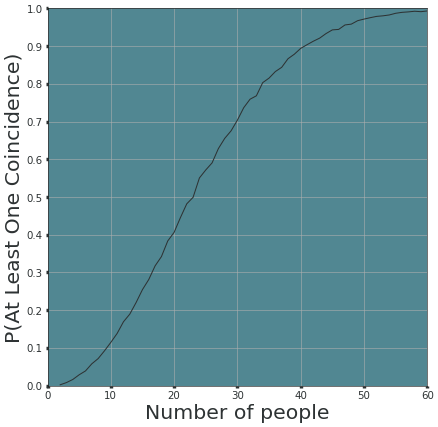
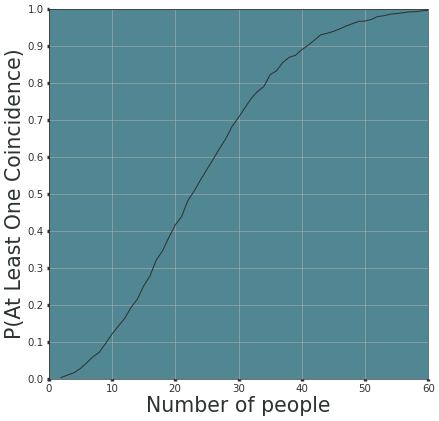
deploy: c236a7530606d18b7183f1582ad5ab26d6f7a4bd

diff --git a/searchindex.js b/searchindex.js
@@ -1,1 +1,1 @@
-Search.setIndex({docnames:["01_mathematical_preliminaries/01_combinatorics","01_mathematical_preliminaries/exercises","02_probability/0202_probability_space","02_probability/0203_probability_axioms","02_probability/0204_conditional_probability","02_probability/0205_independence","02_probability/0206_bayes_theorem","02_probability/summary","03_discrete_random_variables/0301_random_variables","03_discrete_random_variables/0302_discrete_random_variables","03_discrete_random_variables/0303_probability_mass_function","03_discrete_random_variables/0304_cumulative_distribution_function","intro"],envversion:{"sphinx.domains.c":2,"sphinx.domains.changeset":1,"sphinx.domains.citation":1,"sphinx.domains.cpp":5,"sphinx.domains.index":1,"sphinx.domains.javascript":2,"sphinx.domains.math":2,"sphinx.domains.python":3,"sphinx.domains.rst":2,"sphinx.domains.std":2,"sphinx.ext.intersphinx":1,"sphinxcontrib.bibtex":9,sphinx:56},filenames:["01_mathematical_preliminaries/01_combinatorics.md","01_mathematical_preliminaries/exercises.ipynb","02_probability/0202_probability_space.md","02_probability/0203_probability_axioms.md","02_probability/0204_conditional_probability.md","02_probability/0205_independence.md","02_probability/0206_bayes_theorem.md","02_probability/summary.md","03_discrete_random_variables/0301_random_variables.md","03_discrete_random_variables/0302_discrete_random_variables.md","03_discrete_random_variables/0303_probability_mass_function.md","03_discrete_random_variables/0304_cumulative_distribution_function.md","intro.md"],objects:{},objnames:{},objtypes:{},terms:{"0":[1,2,3,5,6,7,8,10,11],"07":1,"1":[0,1,2,3,4,5,6,7,8,9,10,11],"10":[2,11],"1000":1,"10000":1,"1000000":1,"12":9,"13":8,"15":[1,10],"18":11,"1st":5,"2":[0,1,2,3,5,7,8,10,11],"20":1,"2014":11,"2021":[2,5,6],"25":[1,7,11],"26":1,"2d":1,"2d3233":1,"2x":8,"3":[0,1,2,5,6,7,8,10,11],"30":1,"3230":1,"323374":1,"36":[0,5,7],"365":1,"4":[1,2,5,7,8,10,11],"49":1,"4b71eb3c8dc7":1,"5":[0,1,2,5,7,8,10,11],"50":1,"518792":1,"6":[0,2,5,7],"60":1,"7":[1,2,5],"8":[1,2,5],"8986519194402697e":1,"9":2,"90":6,"91":6,"9687":1,"97":1,"9725":1,"abstract":2,"boolean":1,"case":[1,3,8,11],"class":7,"default":1,"do":[2,5,11],"final":[1,2],"float":1,"function":[3,4,5,6,8],"import":[0,1,2,7,8,11],"int":1,"long":2,"return":1,"short":1,"throw":[2,3,5,8],"true":[0,1,3,11],"while":[8,9],A:[1,2,3,4,5,6,7,8,9,10],And:2,As:[1,5,10,11],At:1,But:[0,2,7],By:[0,7],For:[1,2,3,7],If:[0,1,2,3,4,5,6,7],In:[0,1,2,3,4,5,7,8,10,11],It:[1,2,3,5,8],One:[0,1,2,3,5,7],That:[7,11],The:[1,4,5,6,8,10,11],Then:[0,2,4,5,6,7,8,11],There:2,To:[0,3,5],With:[2,8],_:1,a_1:[3,6,7],a_2:[3,6,7],a_3:6,a_i:[2,3,6,7],a_j:6,a_k:[6,7],a_n:[3,6],abl:2,about:[2,5],abov:[5,10],abus:7,action:2,actual:7,add:[0,1,2,6,7],addit:0,adject:2,advantag:11,affect:[2,5],after:[1,4,6,7],again:2,against:7,airplan:0,akin:1,align:[2,8,10,11],all:[0,1,2,3,5,6,7,8,10,11],all_lett:1,allow:[1,2],aloc:1,alphabet:1,alreadi:[5,8],also:[0,1,2,3,5,6,7,11],alwai:[2,8],amount:5,an:[0,1,2,3,4,5,7,8,11],analysi:7,ani:[1,2,3,6,7,8,11],anoth:[2,11],answer:[0,1,4,7,8],anywai:[6,7],appar:[4,6,7],appear:0,append:1,appli:8,ar:[0,1,2,3,4,5,6,7,8,9],arbitrari:8,area:[4,5],arg:1,argument:5,around:1,arrai:[1,11],asarrai:1,ascii_lowercas:1,ask:[0,2,8],assign:[1,2],assum:[0,1,2,5,6],attempt:2,author:5,awai:11,ax:[1,11],axi:11,axiom:2,b:[1,2,3,4,5,6,7],back:[2,6,8],ball:2,beat:7,becaus:[2,3,5],becom:[2,4,7],been:2,begin:[2,8,10,11],beginn:[2,4],being:[2,3],believ:5,belong:4,below:[1,2,3,5,6,8],best:7,better:2,between:[2,8],bigcup_:2,bigsqcup_:3,biject:8,black:2,blob:1,blue:2,book:[0,12],bool:1,both:[0,2,3,4,7],broken:[6,7],c:[2,3,4,5,7],cach:1,calc_vowel_consonant_prob:1,calcul:[1,2],calculate_same_birthday_prob:1,calculate_same_birthday_probability_rng_choic:1,call:[6,8,10],can:[0,1,2,3,5,6,7,8,9,10,11],cannot:[2,3,5,11],cap:[3,4,5,6,7],care:[0,1,2,7],carefulli:[2,8],caus:7,cd:1,cdot:[6,8],certain:2,chan:[2,5,6,8],chanc:[1,2,7],chang:[0,7],chapter:[0,2,5],check:[1,4,7],choic:[0,1,2,5,7],choo:0,choos:[0,2],chose:2,chosen:1,chosen_lett:1,circl:[1,4,5],cite:2,claim:[0,2],clear:[3,5,6],close:12,cmap:1,code:1,codomain:8,coin:[2,3],coincid:[1,8],collect:[1,2],color:[1,2,8],colorbar:1,com:[1,11],combin:7,come:[1,2],common:7,compar:2,complet:[8,10],compulsori:2,comput:[10,11],concis:3,concret:[2,8],condit:1,confus:[2,8],consequ:8,consid:[0,1,2,5,7,8,11],consist:2,conson:1,constant:[1,8],constantli:[4,7],construct:[2,5,8],contain:1,containsdupl:1,content:1,contest:7,context:[2,5,6,8],continu:[2,11],contour:1,converg:1,convinc:[0,2],correctli:1,correspond:[1,9],correspondingli:[1,2],could:2,count:[1,2,7],countabl:[2,3,10,11],counter:2,cours:[0,2,7],course_2014:11,creat:1,cross:[0,7],cumsum:11,cup:[3,6],curvatur:1,d:2,d_1:0,d_2:0,d_3:0,dai:1,dartboard:5,data:[1,2,6,10,12],dataset:7,decreas:11,deduc:[6,7],def:[1,8,11],default_rng:1,defin:[3,4,6,8,11],definit:[2,7],denomin:[0,7],denot:[0,2,4,8,10],depend:[2,5,7,8],depth:2,describ:[2,8,11],desrib:2,detail:[2,5],determin:[8,10],determinist:8,dfrac:[0,2,4,5,6,7,8,10],diagram:[3,11],dice:[0,2,5,7],dice_1:5,dice_2:5,did:2,die:[2,5],differ:[1,8],dinner:0,directli:1,discret:[1,10,11],discuss:2,disjoint:[6,7],distinct:8,distribut:[1,2],divid:[1,4,5],doe:[1,2,5,6],doesn:6,domain:[8,10],don:[0,1,6,7],done:2,dot:2,down:[6,7],dpi:1,draw:[1,2,3],drawn:1,dtype:1,due:6,dup_dict:1,duplic:1,e:[1,3,4,5,6,8,10],each:[1,2,6,8,10],easi:[3,5,6,7,8],either:[1,3],element:[1,2,8],elimin:5,ell:11,els:1,emptyset:[2,3,5,8],end:[2,8,10,11],engin:7,english:1,enough:1,enter:7,entir:[2,3],enumer:[0,1,5,7,8,10],epsilon:2,equal:2,equat:[5,7,8],equiprob:2,equival:[1,8,11],establish:[5,6,8],estimate_p_aloc:1,estimate_p_aloc_for_rang:1,even:[5,7],event:[0,1,4,6,7,8],exactli:2,examin:[8,10],exampl:[0,1,3,5,7,10],exclus:2,exhaust:2,exist:2,exp:1,expect:8,experi:[3,5,8],explan:5,express:[6,8],f:[1,11],face:7,fact:[2,6,7],fair:8,fals:[1,11],field:2,fifti:7,fig:[1,4,11],figsiz:[1,11],figur:[4,6,11],fill:0,filterwarn:11,find:[1,2,5,6,7],finit:2,first:[0,1,2,5,6,7,8],fit:7,five:5,fix:[0,8],flaw:5,focu:5,fold:1,follow:[2,3,5,7,8,10,11,12],fontsiz:1,forget:2,form:[1,5],formal:[2,5],formula:[2,4,5,6,7],four:8,frac:[1,2,5,11],free:11,frequenc:[1,2],from:[1,2,5,6,8,11],fulfil:1,full:[4,5],functool:1,further:[2,5],game:7,gaohn:1,gaussian:7,gave:[5,8],gener:[1,2],generate_k_birthdai:1,generate_one_random_birthdai:1,generate_random_birthdai:1,geq:3,get:[1,2,8],github:1,give:[1,2,4],given:[1,2,3,4,5,7,8,10,11],go:[1,2],good:[4,8],got:1,granular:2,grid:[1,11],group:1,h:[2,6],ha:[1,2,4,5,7,8,11],hand:5,happen:[3,4,5,7],has_coincid:1,has_dupl:1,have:[0,1,2,3,4,5,6,7,8,10,11],head:[2,3,8],henc:[2,3,5],here:[1,2,4,5,6,7,8,10,11],hh:[8,10],high:1,home:1,how:[0,1,2,5,8],howev:[2,8],ht:[8,10],http:[1,11],hurdl:2,i:[1,2,3,4,5,6,7,8,10,11],idea:[3,4],ideal:2,iff:5,ignor:11,illustr:[3,4,5],imag:6,imagin:5,immedi:[2,3,4,5],impli:2,inclus:1,inde:[0,1,7,8],independ:0,index:[1,6,7],indic:1,influenc:5,inform:[2,3,4],infti:[2,3,11],inspect:2,instanc:2,instead:[1,5,11],integ:1,interest:[2,7],interpret:2,intersect:[4,5],interv:9,introduct:[2,6,10],intuit:[2,3,7],involv:2,irrelev:2,issubset:1,its:[3,8,10],itself:[6,7],jar:1,just:[1,2,4,6,7],k:[1,6,7,11],k_probabl:1,keep:1,kind:11,know:[0,2,5,7,8],known:2,ks:1,kwarg:1,l_1:0,l_2:0,label:2,land:3,last:7,lastli:1,later:[2,11],law:[3,8],ldot:[0,5,6,7,11],learn:[2,7],least:[1,3],leav:5,left:[0,3,5],len:1,leq:[3,11],lesson:11,let:[0,2,3,4,5,6,7,10,11],letter:1,librari:1,like:[1,2,5,7],likelihood:2,limit:5,line:1,lineplot:1,linspac:1,list:1,littl:2,ll:2,logic:[3,4,7],longrightarrow:5,look:[1,2],loop:1,loos:[6,7],low:1,lru_cach:1,lset:[2,8,10,11],lsq:[2,8,10,11],lunch:0,machin:7,made:6,mai:[2,6],main:8,major:2,make:[2,6],mani:[0,1,7],manual:[0,7,8],map:[2,8,10],mapsto:[2,8,10],mass:11,master:1,match:[7,8],math:2,mathbb:9,mathemat:2,mathstackexchang:2,matplotlib:[1,11],max_num_peopl:1,maximum:11,me:[2,5],mean:[1,2,4,5,6,7,8],meant:8,measur:8,mention:[2,5],menu:0,meshgrid:1,method:11,michigan:2,might:[2,4],min:0,min_num_peopl:1,mine:1,minimum:11,mix:[1,11],ml:7,model:[1,2,7],monoton:3,more:[1,2,5,6,8],most:[0,1,2,3,7],mostli:7,much:2,multipl:[7,8],multipli:1,must:[2,3,6,7],mutual:2,my:[1,2,5],myself:2,n:[2,3,4,5,6,9],naiv:2,name:[2,8],narr:5,natur:9,necessarili:[2,6,8],need:[0,2,6,7,8],neerajkumarvaid:1,neither:1,never:3,next:[0,2,7],ni:10,nice:[5,7],non:[2,6,7,8,11],none:1,notat:[2,8],note:[1,6,7,8,11],noth:0,notic:2,notwithstand:2,now:[0,1,2,4,5,6,7],np:[1,11],nr:2,num:1,num_aloc:1,num_birthdai:1,num_peopl:1,num_possible_birthdai:1,num_simul:1,num_trial:1,num_unique_birthdai:1,number:[1,2,4,5,8,9],numer:[0,3,7],numpi:[1,11],o:1,obei:2,object:2,observ:[2,6,7],obtain:11,obviou:[2,6],obvious:2,occur:[1,2,3,4,5],occurr:5,off:0,offer:0,often:[2,7,8],one:[0,1,2,3,4,5,7,8,9,11],onli:[0,2,4,5,7,8],option:[1,5],order:[1,2],os:1,other:[1,2,3,4,5],our:[0,1,2,7,8,10,11],ourselv:0,out:5,outcom:[0,2,3,4,5,7,8],over:[1,3,4,5,6],overlap:[4,6,7],overset:[8,11],overwhelm:2,p:[1,3,4,5,6,7,8,10,11],p_aloc:1,paradox:5,paramet:1,parametr:2,part:[0,1,7],particular:[1,2,4,7,8,10,11],partit:6,peopl:1,per:10,percent:7,person:1,pertain:2,pi:1,pick:2,plai:7,player:7,plot:11,plt:[1,11],point:2,portion:4,possibl:[1,2,3,8,10],pp:6,practic:7,prefer:2,present:2,pretti:8,previou:[2,5],principl:7,prior:7,probabilitycours:11,probabl:[1,8,11,12],problem:[0,1,2,7],process:11,product:[0,7],professor:8,proof:[6,10],proposit:3,provok:2,pspace:[3,4,5,6],publish:2,purpos:2,put:9,py:1,pyplot:[1,11],python:1,q:9,quad:[5,8],question:[2,7,8],quot:4,r:[2,8,9,11],rain:2,randint:1,random:[1,10,11],rang:[1,8,9],ratio:2,rdgy:1,reader:[6,7],real:[2,8,9],realiti:2,realiz:1,recal:[0,3,5,7,8,10],recogn:6,recov:6,red:[2,8],reduc:[4,5,7],refer:[0,1],refram:[0,7],relat:[0,7],remain:[5,7],remov:2,repeat:1,replac:[1,11],repli:2,repositori:12,repres:[4,6,7],represent:5,requir:7,respect:[0,2,7,11],rest:2,result:[1,2,3,5],revisit:10,right:[0,2,3,4,5,11],rng:1,roll:[0,2,5,7],rote:2,round:2,rset:[2,8,10,11],rsq:[2,8,10,11],run:1,runner:1,s:[0,1,2,3,4,5,7,8,10,11],s_1:2,s_2:2,s_n:2,sai:[1,2,5,7],said:[0,1,2,5],same:[0,1,2,3,8],sampel:2,sampl:[0,1,3,4,5,6,7,8,10],sample_2_letters_without_replac:1,satisfi:[2,3,8,10,11],scenario:[2,5],scienc:[1,2,6,10,12],scratch:1,seaborn:1,second:[0,5,7],secondli:[2,8],section:[2,5,7,10],see:[0,1,2,3,4,5,6,7,8,9,10,11],seed_al:1,seem:[2,8],select:[1,2],sens:[2,6],sequenc:3,set:[1,5,8,10,11],set_facecolor:1,set_tick_param:1,set_titl:11,set_xlabel:11,set_ylabel:11,set_ylim:11,shade:4,shape:2,sharei:11,sharex:11,shorthand:8,should:[1,2,4,5,6,7,8,10],show:[1,11],side:5,sigma:2,simpl:[0,1,2],simpli:[2,8],simplic:2,simul:1,sinc:[0,1,2,3,5,6,7,8,11],singl:[2,3],singleton:8,size:[1,2],sn:1,so:[0,1,2,3,4,5,7,8,11],solut:8,solv:8,some:[2,6,7],someth:[2,7],sometim:2,somewher:5,soon:2,space:[0,1,3,4,5,6,7,8,9],span:3,specif:2,specifi:[1,2],sqrt:1,squar:2,st:[8,10],stai:2,staircas:11,stand:2,stanlei:[2,6,8],start:[0,11],stat:1,state:[2,5,6,8,11],statisc:5,statist:11,stem:11,step:11,still:[5,6,7],str:1,straight:2,string:1,stuck:2,subject:2,subplot:[1,11],subsequ:2,subset:[1,2,3,8],subseteq:[3,6],suffic:1,suggest:[1,2],sum:[2,3,5,6],sum_:[2,3,6,10,11],summari:0,summat:3,suppos:7,symbol:11,t:[0,1,2,6,7],tail:[2,3,8],take:[1,2,8,10,11],taken:1,techniqu:2,tell:2,temporarili:2,tend:2,tenni:7,term:7,text:[2,8,11],textbf:[2,5,8],textbook:[2,11],th:[8,10],than:2,thei:[1,2,3,5,6,7,8],them:[0,3,5,6,7],themselv:2,theorem:2,theoret:1,theori:3,therefor:[0,2,4,5,6,7],thi:[0,1,2,3,4,5,6,7,8,12],think:5,thought:2,three:[2,5,7],thrice:0,through:[1,2],thu:[2,5,10,11],tie:8,time:[0,1,3,7],todo:10,too:2,toss:[2,3],total:[0,1,2,8],touch:[6,7],tournament:7,towardsdatasci:1,trial:2,triplet:2,truli:[5,7],tt:[8,10],tupl:[2,5],turn:2,tweak:2,twice:[0,1,5,7,8],two:[1,5,6,8],type:[1,2,7],typic:2,u:1,unchang:[5,7],uncount:2,understand:[1,2,5,6,7],understood:[0,1,5,7],uniform:1,uniformli:1,uniqu:2,unique_birthdai:1,univers:[4,5],up:[1,2,6,7],url:11,us:[0,1,2,5,7,10,11],usag:[6,7],use_line_collect:11,user:2,usual:2,util:1,valu:[1,8,10],variabl:[1,10,11],venn:3,verifi:[0,7,8],view:6,violat:2,visit:2,visual:5,vowel:1,vs:7,w:7,wa:2,wai:[2,5,6,11],want:[1,2,5],warn:11,we:[0,1,2,3,4,5,6,7,8,10,11],weather:2,well:[0,2,3,7],were:[0,2],weren:2,what:[0,1,2,4,5,7,8],whatev:[4,7],when:[1,2,4,5,7,8],whenev:[1,6,7],where:[0,1,2,3,8,11],whether:1,which:[0,1,2,3,4,5,7,8],whole:[4,6,7],whose:9,why:[1,5],width:1,win:7,without:[1,4,5,7],won:7,word:[1,2,4,5],work:1,world:[2,7],would:[2,7],write:8,www:11,x:[1,8,9,10,11],x_:11,x_i:11,x_k:11,xaxi:1,xi:[2,8,10,11],xi_1:[8,11],xi_2:[8,11],xi_3:8,xi_4:8,xi_i:[8,11],xlabel:1,xlim:1,xtick:1,y:[1,11],y_rang:1,yan:0,yaxi:1,ye:2,ylabel:1,ylim:1,you:[2,4,5,8],your:[1,7,8],yourself:[2,8],ytick:1,z:[1,9]},titles:["Permutations and Combinations","Exercises","Probability Space","Probability Axioms","Conditional Probability","Independence","Baye\u2019s Theorem and the Law of Total Probability","Summary","Random Variables","Discrete Random Variables","Probability Mass Function","Cumulative Distribution Function","Introduction"],titleterms:{"10":1,"2":6,"247":6,"248":6,"47":6,"48":6,"6":1,"9":1,"do":[0,7],"function":[2,10,11],The:[0,2,3,7],addit:3,axiom:3,bay:[6,7],birthdai:1,bound:3,cdf:11,citat:[2,11],coin:[8,10],combin:0,complement:3,condit:[4,5,6,7],convers:11,corollari:[3,6],count:0,countabl:9,cross:10,cumul:11,defin:[2,5],definit:[4,5,8,9,10,11],discret:9,disjoint:[3,5],distribut:11,e:2,empti:3,equal:4,event:[2,3,5],exampl:[2,8],exclus:3,exercis:[1,5,6],experi:2,f:2,imag:8,inclus:3,independ:[5,7],inequ:3,interpret:6,introduct:12,intuit:[4,5,6],kolmogorov:3,law:[2,6,7],mass:10,mathbb:2,mathbf:2,mathcal:2,measur:2,mp:0,multipl:0,multipli:[0,7],mutual:3,neg:3,non:3,normal:[3,10],note:2,notion:2,omega:2,p:2,paradox:1,permut:0,pmf:[10,11],posterior:[6,7],pre:8,principl:0,priori:7,probabl:[0,2,3,4,5,6,7,10],properti:[10,11],proposit:4,question:1,random:[8,9],rule:10,s:6,sampl:2,set:[2,3,9],space:[2,10],state:10,sturg:10,summari:[7,8],term:5,terminolog:6,theorem:[6,7],three:3,toss:[8,10],total:[6,7],two:3,union:3,valid:10,variabl:[8,9],vs:[5,8],why:[0,7],you:[0,7],zero:2}})
+Search.setIndex({docnames:["01_mathematical_preliminaries/01_combinatorics","01_mathematical_preliminaries/exercises","02_probability/0202_probability_space","02_probability/0203_probability_axioms","02_probability/0204_conditional_probability","02_probability/0205_independence","02_probability/0206_bayes_theorem","02_probability/summary","03_discrete_random_variables/0301_random_variables","03_discrete_random_variables/0302_discrete_random_variables","03_discrete_random_variables/0303_probability_mass_function","03_discrete_random_variables/0304_cumulative_distribution_function","intro"],envversion:{"sphinx.domains.c":2,"sphinx.domains.changeset":1,"sphinx.domains.citation":1,"sphinx.domains.cpp":5,"sphinx.domains.index":1,"sphinx.domains.javascript":2,"sphinx.domains.math":2,"sphinx.domains.python":3,"sphinx.domains.rst":2,"sphinx.domains.std":2,"sphinx.ext.intersphinx":1,"sphinxcontrib.bibtex":9,sphinx:56},filenames:["01_mathematical_preliminaries/01_combinatorics.md","01_mathematical_preliminaries/exercises.ipynb","02_probability/0202_probability_space.md","02_probability/0203_probability_axioms.md","02_probability/0204_conditional_probability.md","02_probability/0205_independence.md","02_probability/0206_bayes_theorem.md","02_probability/summary.md","03_discrete_random_variables/0301_random_variables.md","03_discrete_random_variables/0302_discrete_random_variables.md","03_discrete_random_variables/0303_probability_mass_function.md","03_discrete_random_variables/0304_cumulative_distribution_function.md","intro.md"],objects:{},objnames:{},objtypes:{},terms:{"0":[1,2,3,5,6,7,8,10,11],"07":1,"1":[0,1,2,3,4,5,6,7,8,9,10,11],"10":[2,11],"1000":1,"10000":1,"1000000":1,"12":9,"13":8,"15":[1,10],"18":11,"1st":5,"2":[0,1,2,3,5,7,8,10,11],"20":1,"2014":11,"2021":[2,5,6],"25":[1,7,11],"26":1,"2d":1,"2d3233":1,"2x":8,"3":[0,1,2,5,6,7,8,10,11],"30":1,"322576":1,"3230":1,"36":[0,5,7],"365":1,"4":[1,2,5,7,8,10,11],"49":1,"4b71eb3c8dc7":1,"5":[0,1,2,5,7,8,10,11],"50":1,"518792":1,"6":[0,2,5,7],"60":1,"7":[1,2,5],"8":[1,2,5],"8986519194402697e":1,"9":2,"90":6,"91":6,"97":1,"9714":1,"abstract":2,"boolean":1,"case":[1,3,8,11],"class":7,"default":1,"do":[2,5,11],"final":[1,2],"float":1,"function":[3,4,5,6,8],"import":[0,1,2,7,8,11],"int":1,"long":2,"return":1,"short":1,"throw":[2,3,5,8],"true":[0,1,3,11],"while":[8,9],A:[1,2,3,4,5,6,7,8,9,10],And:2,As:[1,5,10,11],At:1,But:[0,2,7],By:[0,7],For:[1,2,3,7],If:[0,1,2,3,4,5,6,7],In:[0,1,2,3,4,5,7,8,10,11],It:[1,2,3,5,8],One:[0,1,2,3,5,7],That:[7,11],The:[1,4,5,6,8,10,11],Then:[0,2,4,5,6,7,8,11],There:2,To:[0,3,5],With:[2,8],_:1,a_1:[3,6,7],a_2:[3,6,7],a_3:6,a_i:[2,3,6,7],a_j:6,a_k:[6,7],a_n:[3,6],abl:2,about:[2,5],abov:[5,10],abus:7,action:2,actual:7,add:[0,1,2,6,7],addit:0,adject:2,advantag:11,affect:[2,5],after:[1,4,6,7],again:2,against:7,airplan:0,akin:1,align:[2,8,10,11],all:[0,1,2,3,5,6,7,8,10,11],all_lett:1,allow:[1,2],aloc:1,alphabet:1,alreadi:[5,8],also:[0,1,2,3,5,6,7,11],alwai:[2,8],amount:5,an:[0,1,2,3,4,5,7,8,11],analysi:7,ani:[1,2,3,6,7,8,11],anoth:[2,11],answer:[0,1,4,7,8],anywai:[6,7],appar:[4,6,7],appear:0,append:1,appli:8,ar:[0,1,2,3,4,5,6,7,8,9],arbitrari:8,area:[4,5],arg:1,argument:5,around:1,arrai:[1,11],asarrai:1,ascii_lowercas:1,ask:[0,2,8],assign:[1,2],assum:[0,1,2,5,6],attempt:2,author:5,awai:11,ax:[1,11],axi:11,axiom:2,b:[1,2,3,4,5,6,7],back:[2,6,8],ball:2,beat:7,becaus:[2,3,5],becom:[2,4,7],been:2,begin:[2,8,10,11],beginn:[2,4],being:[2,3],believ:5,belong:4,below:[1,2,3,5,6,8],best:7,better:2,between:[2,8],bigcup_:2,bigsqcup_:3,biject:8,black:2,blob:1,blue:2,book:[0,12],bool:1,both:[0,2,3,4,7],brain:2,broken:[6,7],c:[1,2,3,4,5,7],cach:1,calc_vowel_consonant_prob:1,calcul:[1,2],calculate_same_birthday_prob:1,calculate_same_birthday_probability_rng_choic:1,call:[6,8,10],can:[0,1,2,3,5,6,7,8,9,10,11],cannot:[2,3,5,11],cap:[3,4,5,6,7],care:[0,1,2,7],carefulli:[2,8],caus:7,cd:1,cdot:[6,8],certain:2,chan:[2,5,6,8],chanc:[1,2,7],chang:[0,7],chapter:[0,2,5],check:[1,4,7],choic:[0,1,2,5,7],choo:0,choos:[0,2],chose:2,chosen:1,chosen_lett:1,circl:[1,4,5],cite:2,claim:[0,2],clear:[3,5,6],close:12,cmap:1,code:1,codomain:8,coin:[2,3],coincid:[1,8],collect:[1,2],color:[1,2,8],colorbar:1,com:[1,11],combin:7,come:[1,2],common:7,compar:2,complet:[8,10],compulsori:2,comput:[10,11],concis:3,concret:[2,8],condit:1,confus:[2,8],consequ:8,consid:[0,1,2,5,7,8,11],consist:2,conson:1,constant:[1,8],constantli:[4,7],construct:[2,5,8],contain:1,containsdupl:1,content:1,contest:7,context:[2,5,6,8],continu:[2,11],contour:1,converg:1,convinc:[0,2],correctli:1,correspond:[1,9],correspondingli:[1,2],could:2,count:[1,2,7],countabl:[2,3,10,11],counter:2,cours:[0,2,7],course_2014:11,creat:1,cross:[0,7],cumsum:11,cup:[3,6],curvatur:1,d:2,d_1:0,d_2:0,d_3:0,dai:1,dartboard:5,data:[1,2,6,10,12],dataset:7,decreas:11,deduc:[6,7],def:[1,8,11],default_rng:1,defin:[3,4,6,8,11],definit:[2,7],denomin:[0,7],denot:[0,2,4,8,10],depend:[2,5,7,8],depth:2,describ:[2,8,11],desrib:2,detail:[2,5],determin:[8,10],determinist:8,dfrac:[0,2,4,5,6,7,8,10],diagram:[3,11],dice:[0,2,5,7],dice_1:5,dice_2:5,did:2,die:[2,5],differ:[1,8],dinner:0,directli:1,discret:[1,10,11],discuss:2,disjoint:[6,7],distinct:8,distribut:[1,2],divid:[1,4,5],doe:[1,2,5,6],doesn:6,domain:[8,10],don:[0,1,6,7],done:2,dot:2,down:[6,7],dpi:1,draw:[1,2,3],drawn:1,dtype:1,due:6,dump:2,dup_dict:1,duplic:1,e:[1,3,4,5,6,8,10],each:[1,2,6,8,10],easi:[3,5,6,7,8],either:[1,3],element:[1,2,8],elimin:5,ell:11,els:1,emptyset:[2,3,5,8],end:[2,8,10,11],engin:7,english:1,enough:1,enter:7,entir:[2,3],enumer:[0,1,5,7,8,10],epsilon:2,equal:2,equat:[5,7,8],equiprob:2,equival:[1,8,11],establish:[5,6,8],estimate_p_aloc:1,estimate_p_aloc_for_rang:1,even:[5,7],event:[0,1,4,6,7,8],exactli:2,examin:[8,10],exampl:[0,1,3,5,7,10],exclus:2,exhaust:2,exist:2,exp:1,expect:8,experi:[3,5,8],explan:5,express:[6,8],f:[1,11],face:7,fact:[2,6,7],fair:8,fals:[1,11],field:2,fifti:7,fig:[1,4,11],figsiz:[1,11],figur:[4,6,11],fill:0,filterwarn:11,find:[1,2,5,6,7],finit:2,first:[0,1,2,5,6,7,8],fit:7,five:5,fix:[0,8],flaw:5,focu:5,fold:1,follow:[2,3,5,7,8,10,11,12],fontsiz:1,forget:2,form:[1,5],formal:[2,5],formula:[2,4,5,6,7],four:8,frac:[1,2,5,11],free:11,frequenc:[1,2],from:[1,2,5,6,8,11],fulfil:1,full:[4,5],functool:1,further:[2,5],game:7,gao_hongnan:1,gaohn:1,gaussian:7,gave:[5,8],gener:[1,2],generate_k_birthdai:1,generate_one_random_birthdai:1,generate_random_birthdai:1,geq:3,get:[1,2,8],github:1,give:[1,2,4],given:[1,2,3,4,5,7,8,10,11],go:[1,2],good:[4,8],got:1,granular:2,grid:[1,11],group:1,h:[2,6],ha:[1,2,4,5,7,8,11],hand:5,happen:[3,4,5,7],has_coincid:1,has_dupl:1,have:[0,1,2,3,4,5,6,7,8,10,11],head:[2,3,8],henc:[2,3,5],here:[1,2,4,5,6,7,8,10,11],hh:[8,10],high:1,how:[0,1,5,8],howev:[2,8],ht:[8,10],http:[1,11],hurdl:2,i:[1,2,3,4,5,6,7,8,10,11],idea:[3,4],ideal:2,iff:5,ignor:11,illustr:[3,4,5],imag:6,imagin:5,immedi:[2,3,4,5],impli:2,inclus:1,inde:[0,1,7,8],independ:0,index:[1,6,7],indic:1,influenc:5,inform:[2,3,4],infti:[2,3,11],inspect:2,instanc:2,instead:[1,5,11],integ:1,interest:[2,7],interpret:2,intersect:[4,5],interv:9,introduct:[2,6,10],intuit:[2,3,7],involv:2,irrelev:2,issubset:1,its:[3,8,10],itself:[6,7],jar:1,just:[1,2,4,6,7],k:[1,6,7,11],k_probabl:1,keep:1,kind:11,know:[0,2,5,7,8],known:2,ks:1,kwarg:1,l_1:0,l_2:0,label:2,land:3,last:7,lastli:1,later:[2,11],law:[3,8],ldot:[0,5,6,7,11],learn:[2,7],least:[1,3],leav:5,left:[0,3,5],len:1,leq:[3,11],lesson:11,let:[0,2,3,4,5,6,7,10,11],letter:1,librari:1,like:[1,2,5,7],likelihood:2,limit:5,line:1,lineplot:1,linspac:1,list:1,littl:2,ll:2,logic:[3,4,7],longrightarrow:5,look:[1,2],loop:1,loos:[6,7],low:1,lru_cach:1,lset:[2,8,10,11],lsq:[2,8,10,11],lunch:0,machin:7,made:6,mai:[2,6],main:8,major:2,make:[2,6],mani:[0,1,7],manual:[0,7,8],map:[2,8,10],mapsto:[2,8,10],mass:11,master:1,match:[7,8],math:2,mathbb:9,mathemat:2,mathstackexchang:2,matplotlib:[1,11],max_num_peopl:1,maximum:11,md:2,me:[2,5],mean:[1,2,4,5,6,7,8],meant:8,measur:8,mention:[2,5],menu:0,meshgrid:1,method:11,michigan:2,might:[2,4],min:0,min_num_peopl:1,mine:1,minimum:11,mix:[1,11],ml:7,model:[1,2,7],monoton:3,more:[1,2,5,6,8],most:[0,1,2,3,7],mostli:7,much:2,multipl:[7,8],multipli:1,must:[2,3,6,7],mutual:2,my:[1,2,5],myself:2,n:[2,3,4,5,6,9],naiv:2,name:[2,8],narr:5,natur:9,necessarili:[2,6,8],need:[0,2,6,7,8],neerajkumarvaid:1,neither:1,never:3,next:[0,2,7],ni:10,nice:[5,7],non:[2,6,7,8,11],none:1,notat:[2,8],note:[1,6,7,8,11],noth:0,notic:2,notwithstand:2,now:[0,1,2,4,5,6,7],np:[1,11],nr:2,num:1,num_aloc:1,num_birthdai:1,num_peopl:1,num_possible_birthdai:1,num_simul:1,num_trial:1,num_unique_birthdai:1,number:[1,2,4,5,8,9],numer:[0,3,7],numpi:[1,11],o:1,obei:2,object:2,observ:[2,6,7],obtain:11,obviou:[2,6],obvious:2,occur:[1,2,3,4,5],occurr:5,off:0,offer:0,often:[2,7,8],one:[0,1,2,3,4,5,7,8,9,11],onli:[0,2,4,5,7,8],option:[1,5],order:[1,2],os:1,other:[1,2,3,4,5],our:[0,1,2,7,8,10,11],ourselv:0,out:5,outcom:[0,2,3,4,5,7,8],over:[1,3,4,5,6],overlap:[4,6,7],overset:[8,11],overwhelm:2,p:[1,3,4,5,6,7,8,10,11],p_aloc:1,paradox:5,paramet:1,parametr:2,part:[0,1,7],particular:[1,2,4,7,8,10,11],partit:6,peopl:1,per:10,percent:7,person:1,pertain:2,pi:1,pick:2,plai:7,player:7,plot:11,plt:[1,11],point:2,portion:4,possibl:[1,2,3,8,10],pp:6,practic:7,prefer:2,present:2,pretti:8,previou:[2,5],principl:7,prior:7,probabilitycours:11,probabl:[1,8,11,12],problem:[0,1,2,7],process:11,product:[0,7],professor:8,proof:[6,10],proposit:3,provok:2,pspace:[3,4,5,6],publish:2,purpos:2,put:9,py:1,pyplot:[1,11],python:1,q:9,quad:[5,8],question:[2,7,8],quot:4,r:[2,8,9,11],rain:2,randint:1,random:[1,10,11],rang:[1,8,9],ratio:2,rdgy:1,reader:[6,7],real:[2,8,9],realiti:2,realiz:1,recal:[0,3,5,7,8,10],recogn:6,recov:6,red:[2,8],reduc:[4,5,7],refer:[0,1],refram:[0,7],relat:[0,7],remain:[5,7],remov:2,repeat:1,replac:[1,11],repli:2,repositori:12,repres:[4,6,7],represent:5,requir:7,respect:[0,2,7,11],rest:2,result:[1,2,3,5],revisit:10,right:[0,2,3,4,5,11],rng:1,roll:[0,2,5,7],rote:2,round:2,rset:[2,8,10,11],rsq:[2,8,10,11],run:1,s:[0,1,2,3,4,5,7,8,10,11],s_1:2,s_2:2,s_n:2,sai:[1,2,5,7],said:[0,1,2,5],same:[0,1,2,3,8],sampel:2,sampl:[0,1,3,4,5,6,7,8,10],sample_2_letters_without_replac:1,satisfi:[2,3,8,10,11],scenario:[2,5],scienc:[1,2,6,10,12],scratch:1,seaborn:1,second:[0,5,7],secondli:[2,8],section:[2,5,7,10],see:[0,1,2,3,4,5,6,7,8,9,10,11],seed_al:1,seem:[2,8],select:[1,2],sens:[2,6],sequenc:3,set:[1,5,8,10,11],set_facecolor:1,set_tick_param:1,set_titl:11,set_xlabel:11,set_ylabel:11,set_ylim:11,shade:4,shape:2,sharei:11,sharex:11,shorthand:8,should:[1,2,4,5,6,7,8,10],show:[1,11],side:5,sigma:2,simpl:[0,1,2],simpli:[2,8],simplic:2,simul:1,sinc:[0,1,2,3,5,6,7,8,11],singl:[2,3],singleton:8,size:[1,2],sn:1,so:[0,1,2,3,4,5,7,8,11],solut:8,solv:8,some:[2,6,7],someth:[2,7],sometim:2,somewher:5,soon:2,space:[0,1,3,4,5,6,7,8,9],span:3,specif:2,specifi:[1,2],sqrt:1,squar:2,st:[8,10],stai:2,staircas:11,stand:2,stanlei:[2,6,8],start:[0,11],stat:1,state:[2,5,6,8,11],statisc:5,statist:11,stem:11,step:11,still:[5,6,7],str:1,straight:2,string:1,stuck:2,subject:2,subplot:[1,11],subsequ:2,subset:[1,2,3,8],subseteq:[3,6],suffic:1,suggest:[1,2],sum:[2,3,5,6],sum_:[2,3,6,10,11],summari:0,summat:3,suppos:7,symbol:11,t:[0,1,2,6,7],tail:[2,3,8],take:[1,2,8,10,11],taken:1,techniqu:2,tell:2,temporarili:2,tend:2,tenni:7,term:7,text:[2,8,11],textbf:[2,5,8],textbook:[2,11],th:[8,10],than:2,thei:[1,2,3,5,6,7,8],them:[0,3,5,6,7],themselv:2,theorem:2,theoret:1,theori:3,therefor:[0,2,4,5,6,7],thi:[0,1,2,3,4,5,6,7,8,12],think:5,thought:2,three:[2,5,7],thrice:0,through:[1,2],thu:[2,5,10,11],tie:8,time:[0,1,3,7],todo:10,too:2,toss:[2,3],total:[0,1,2,8],touch:[6,7],tournament:7,towardsdatasci:1,trial:2,triplet:2,truli:[5,7],tt:[8,10],tupl:[2,5],turn:2,tweak:2,twice:[0,1,5,7,8],two:[1,5,6,8],type:[1,2,7],typic:2,u:1,unchang:[5,7],uncount:2,understand:[1,2,5,6,7],understood:[0,1,5,7],uniform:1,uniformli:1,uniqu:2,unique_birthdai:1,univers:[4,5],up:[1,2,6,7],url:11,us:[0,1,2,5,7,10,11],usag:[6,7],use_line_collect:11,user:[1,2],usual:2,util:1,valu:[1,8,10],variabl:[1,10,11],venn:3,verifi:[0,7,8],view:6,violat:2,visit:2,visual:5,vowel:1,vs:7,w:7,wa:2,wai:[2,5,6,11],want:[1,2,5],warn:11,we:[0,1,2,3,4,5,6,7,8,10,11],weather:2,well:[0,2,3,7],were:[0,2],weren:2,what:[0,1,4,5,7,8],whatev:[4,7],when:[1,2,4,5,7,8],whenev:[1,6,7],where:[0,1,2,3,8,11],whether:1,which:[0,1,2,3,4,5,7,8],whole:[4,6,7],whose:9,why:[1,5],width:1,win:7,without:[1,4,5,7],won:7,word:[1,2,4,5],world:[2,7],would:[2,7],write:8,www:11,x:[1,8,9,10,11],x_:11,x_i:11,x_k:11,xaxi:1,xi:[2,8,10,11],xi_1:[8,11],xi_2:[8,11],xi_3:8,xi_4:8,xi_i:[8,11],xlabel:1,xlim:1,xtick:1,y:[1,11],y_rang:1,yan:0,yaxi:1,ye:2,ylabel:1,ylim:1,you:[2,4,5,8],your:[1,7,8],yourself:[2,8],ytick:1,z:[1,9]},titles:["Permutations and Combinations","Exercises","Probability Space","Probability Axioms","Conditional Probability","Independence","Baye\u2019s Theorem and the Law of Total Probability","Summary","Random Variables","Discrete Random Variables","Probability Mass Function","Cumulative Distribution Function","Introduction"],titleterms:{"10":1,"2":6,"247":6,"248":6,"47":6,"48":6,"6":1,"9":1,"do":[0,7],"function":[2,10,11],The:[0,2,3,7],addit:3,axiom:3,bay:[6,7],birthdai:1,bound:3,cdf:11,citat:[2,11],coin:[8,10],combin:0,complement:3,condit:[4,5,6,7],convers:11,corollari:[3,6],count:0,countabl:9,cross:10,cumul:11,defin:[2,5],definit:[4,5,8,9,10,11],discret:9,disjoint:[3,5],distribut:11,e:2,empti:3,equal:4,event:[2,3,5],exampl:[2,8],exclus:3,exercis:[1,5,6],experi:2,f:2,how:2,imag:8,inclus:3,independ:[5,7],inequ:3,interpret:6,introduct:12,intuit:[4,5,6],kolmogorov:3,law:[2,6,7],mass:10,mathbb:2,mathbf:2,mathcal:2,measur:2,mp:0,multipl:0,multipli:[0,7],mutual:3,neg:3,non:3,normal:[3,10],note:2,notion:2,omega:2,p:2,paradox:1,permut:0,pmf:[10,11],posterior:[6,7],pre:8,principl:0,priori:7,probabl:[0,2,3,4,5,6,7,10],properti:[10,11],proposit:4,question:1,random:[8,9],rule:10,s:6,sampl:2,set:[2,3,9],space:[2,10],state:10,sturg:10,summari:[7,8],term:5,terminolog:6,theorem:[6,7],three:3,toss:[8,10],total:[6,7],two:3,union:3,valid:10,variabl:[8,9],vs:[5,8],what:2,why:[0,7],you:[0,7],zero:2}})

diff --git a/02_probability/0202_probability_space.html b/02_probability/0202_probability_space.html
@@ -427,6 +427,18 @@ title="Print to PDF"
   <a class="reference internal nav-link" href="#the-notion-of-experiments-and-defining-the-probability-space">
    The Notion of Experiments and Defining the Probability Space
   </a>
+  <ul class="nav section-nav flex-column">
+   <li class="toc-h3 nav-item toc-entry">
+    <a class="reference internal nav-link" href="#how-to-define-a-sample-space">
+     How to define a Sample Space?
+    </a>
+   </li>
+   <li class="toc-h3 nav-item toc-entry">
+    <a class="reference internal nav-link" href="#what-is-a-probability-space">
+     What is a Probability Space?
+    </a>
+   </li>
+  </ul>
  </li>
  <li class="toc-h2 nav-item toc-entry">
   <a class="reference internal nav-link" href="#citations">
@@ -504,6 +516,18 @@ title="Print to PDF"
   <a class="reference internal nav-link" href="#the-notion-of-experiments-and-defining-the-probability-space">
    The Notion of Experiments and Defining the Probability Space
   </a>
+  <ul class="nav section-nav flex-column">
+   <li class="toc-h3 nav-item toc-entry">
+    <a class="reference internal nav-link" href="#how-to-define-a-sample-space">
+     How to define a Sample Space?
+    </a>
+   </li>
+   <li class="toc-h3 nav-item toc-entry">
+    <a class="reference internal nav-link" href="#what-is-a-probability-space">
+     What is a Probability Space?
+    </a>
+   </li>
+  </ul>
  </li>
  <li class="toc-h2 nav-item toc-entry">
   <a class="reference internal nav-link" href="#citations">
@@ -680,6 +704,8 @@ the probability function as a frequency counter.</p>
 </section>
 <section id="the-notion-of-experiments-and-defining-the-probability-space">
 <h2>The Notion of Experiments and Defining the Probability Space<a class="headerlink" href="#the-notion-of-experiments-and-defining-the-probability-space" title="Permalink to this headline">#</a></h2>
+<section id="how-to-define-a-sample-space">
+<h3>How to define a Sample Space?<a class="headerlink" href="#how-to-define-a-sample-space" title="Permalink to this headline">#</a></h3>
 <p>Consider the following example:</p>
 <blockquote>
 <div><p>We have 10 balls, 6 red and 4 black. We also know that 3 of the red
@@ -739,9 +765,8 @@ overwhelmed.</p>
 <p>One should know that given an experiment, the sample space is entirely
 up to you to define it, as long as it satisfies the below:</p>
 <ul class="simple">
-<li><p>In the sample space, the outcomes <span class="math notranslate nohighlight">\(s_1,s_2,...,s_n\)</span> must be
-\textbf{mutually exclusive.}</p></li>
-<li><p>The outcomes must be collectively exhaustive\</p></li>
+<li><p>In the sample space, the outcomes <span class="math notranslate nohighlight">\(s_1,s_2,...,s_n\)</span> must be mutually exclusive.</p></li>
+<li><p>The outcomes must be collectively exhaustive;</p></li>
 <li><p>The sample space must have the right granularity depending on what
 we are interested in. We must remove irrelevant information from the
 sample space. In other words, we must choose the right abstraction
@@ -765,7 +790,7 @@ that</p>
 (red) and (round) describes my red and round ball, but we need one
 unique outcome to describe this red and round ball. Hence we have to
 tweak a little.</p>
-<p>There are some<strong>suggestions, not compulsory</strong>, however when choosing a
+<p>There are some <strong>suggestions, not compulsory</strong>, however when choosing a
 sample space. First is simplicity. For instance, in the trial of tossing
 a coin, we could have as a sample space</p>
 <div class="math notranslate nohighlight">
@@ -811,6 +836,11 @@ being <span class="math notranslate nohighlight">\(8,9,10\)</span>.</p>
 example, let <span class="math notranslate nohighlight">\(A\)</span> be the event such that the ball is round, and
 correspondingly, <span class="math notranslate nohighlight">\(A = \{1,2,3,7\}\)</span>. Let <span class="math notranslate nohighlight">\(B\)</span> be the event such that the
 ball is red, and the correspondingly, <span class="math notranslate nohighlight">\(B = \{1,2,3,4,5,6\}\)</span>.</p>
+</section>
+<section id="what-is-a-probability-space">
+<h3>What is a Probability Space?<a class="headerlink" href="#what-is-a-probability-space" title="Permalink to this headline">#</a></h3>
+<p>See my brain dump <code class="docutils literal notranslate"><span class="pre">important.md</span></code>.</p>
+</section>
 </section>
 <section id="citations">
 <h2>Citations<a class="headerlink" href="#citations" title="Permalink to this headline">#</a></h2>

diff --git a/01_mathematical_preliminaries/exercises.html b/01_mathematical_preliminaries/exercises.html
@@ -508,7 +508,7 @@ title="Print to PDF"
 </div>
 </div>
 <div class="cell_output docutils container">
-<div class="output stream highlight-myst-ansi notranslate"><div class="highlight"><pre><span></span>/home/runner/work/gaohn-probability-stats/gaohn-probability-stats/content
+<div class="output stream highlight-myst-ansi notranslate"><div class="highlight"><pre><span></span>C:\Users\gaohn\gao_hongnan\gaohn-probability-stats\content
 </pre></div>
 </div>
 </div>
@@ -611,7 +611,7 @@ title="Print to PDF"
 </div>
 </div>
 <div class="cell_output docutils container">
-<div class="output text_plain highlight-myst-ansi notranslate"><div class="highlight"><pre><span></span>0.323374
+<div class="output text_plain highlight-myst-ansi notranslate"><div class="highlight"><pre><span></span>0.322576
 </pre></div>
 </div>
 </div>
@@ -759,7 +759,7 @@ title="Print to PDF"
 </div>
 </div>
 <div class="cell_output docutils container">
-<div class="output text_plain highlight-myst-ansi notranslate"><div class="highlight"><pre><span></span>0.9687
+<div class="output text_plain highlight-myst-ansi notranslate"><div class="highlight"><pre><span></span>0.97
 </pre></div>
 </div>
 </div>
@@ -821,7 +821,7 @@ title="Print to PDF"
 </div>
 </div>
 <div class="cell_output docutils container">
-<div class="output text_plain highlight-myst-ansi notranslate"><div class="highlight"><pre><span></span>0.9725
+<div class="output text_plain highlight-myst-ansi notranslate"><div class="highlight"><pre><span></span>0.9714
 </pre></div>
 </div>
 </div>

diff --git a/_sources/02_probability/0202_probability_space.md b/_sources/02_probability/0202_probability_space.md
@@ -159,6 +159,8 @@ the probability function as a frequency counter.
 
 ## The Notion of Experiments and Defining the Probability Space
 
+### How to define a Sample Space?
+
 Consider the following example:
 
 > We have 10 balls, 6 red and 4 black. We also know that 3 of the red
@@ -227,9 +229,8 @@ overwhelmed.
 One should know that given an experiment, the sample space is entirely
 up to you to define it, as long as it satisfies the below:
 
--   In the sample space, the outcomes $s_1,s_2,...,s_n$ must be
-    \\textbf{mutually exclusive.}
--   The outcomes must be collectively exhaustive\
+-   In the sample space, the outcomes $s_1,s_2,...,s_n$ must be mutually exclusive.
+-   The outcomes must be collectively exhaustive;
 -   The sample space must have the right granularity depending on what
     we are interested in. We must remove irrelevant information from the
     sample space. In other words, we must choose the right abstraction
@@ -255,7 +256,7 @@ The problem is there is no unique outcome in the sample space that
 unique outcome to describe this red and round ball. Hence we have to
 tweak a little.
 
-There are some**suggestions, not compulsory**, however when choosing a
+There are some **suggestions, not compulsory**, however when choosing a
 sample space. First is simplicity. For instance, in the trial of tossing
 a coin, we could have as a sample space
 
@@ -309,6 +310,11 @@ and of course any element of the event space is considered an event. For
 example, let $A$ be the event such that the ball is round, and
 correspondingly, $A = \{1,2,3,7\}$. Let $B$ be the event such that the
 ball is red, and the correspondingly, $B = \{1,2,3,4,5,6\}$.
+
+### What is a Probability Space?
+
+See my brain dump `important.md`.
+
 
 
 ## Citations
